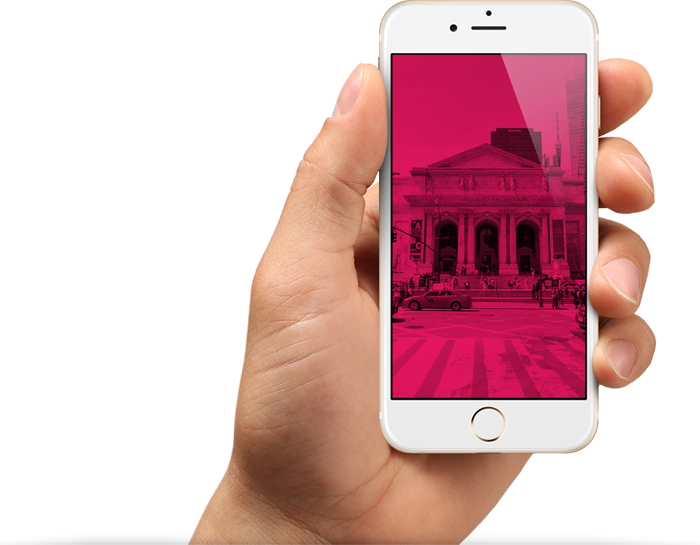
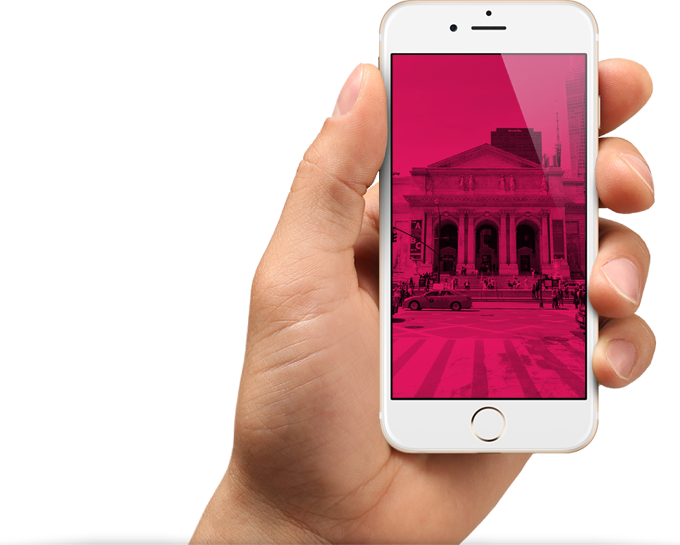
fix index #9. На странице появляется горизонтальный скролл и отступ http://take.ms/eQfKP

diff --git a/less/blocks/intro.less b/less/blocks/intro.less
@@ -61,7 +61,7 @@
 
     &__hand-mobile {
       position: absolute;
-      right: -20px;
+      right: 0;
       bottom: 0;
       margin-bottom: 0;
     }
